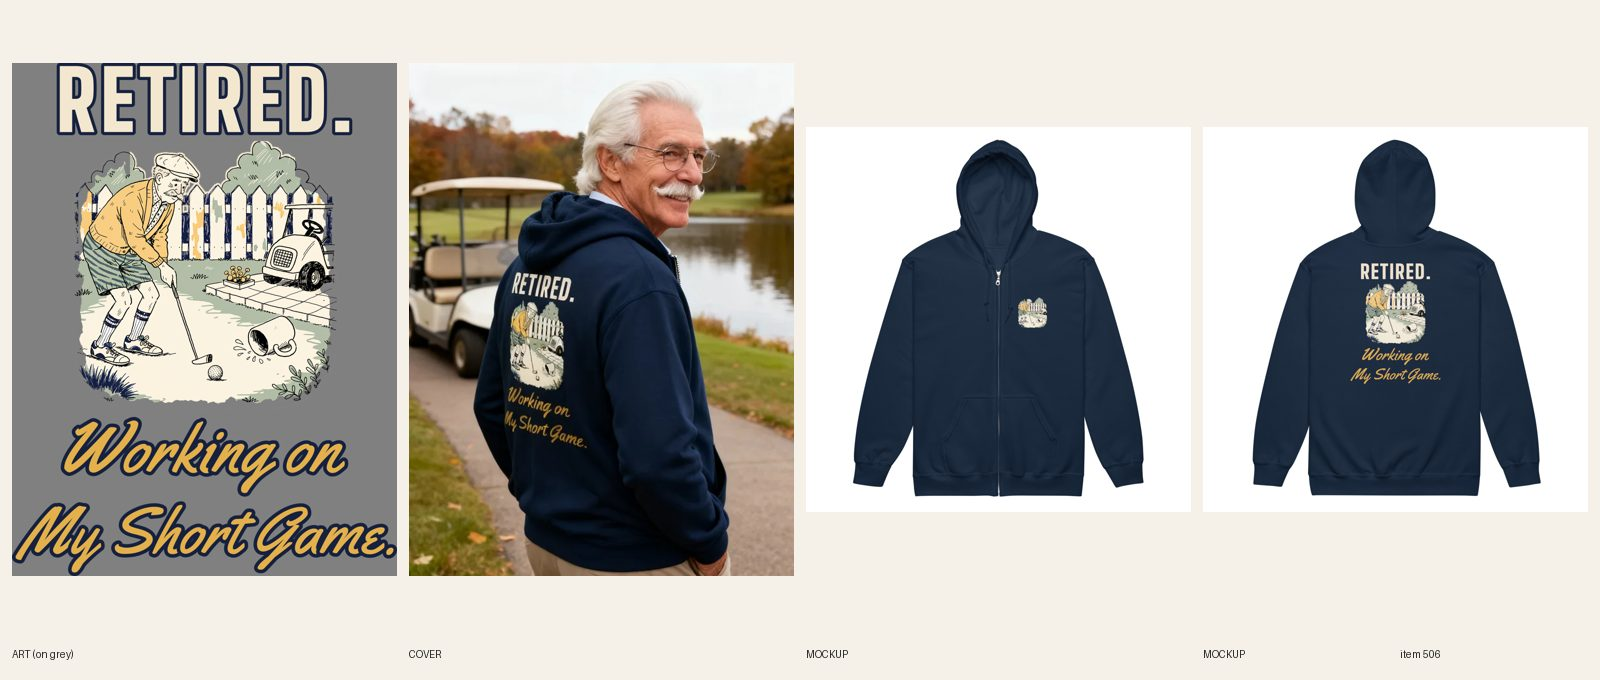
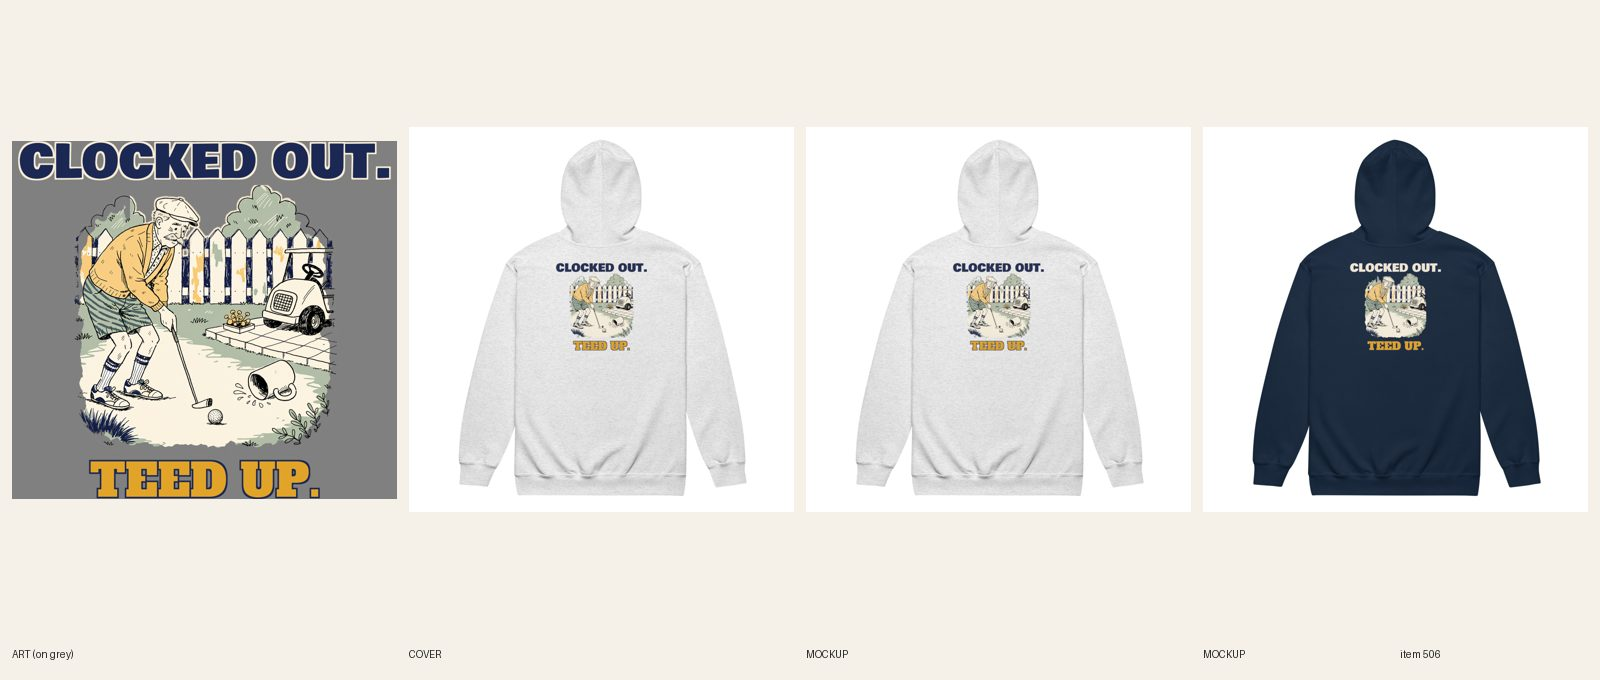
[C] review 506 (redo)
Claude-Session: https://claude.ai/code/session_01CCHcDj8LcJJ8qUPtKE3cvn

diff --git a/designs/c506/make.py b/designs/c506/make.py
@@ -1,0 +1,36 @@
+from PIL import Image, ImageDraw, ImageFont, ImageFilter
+FD='designs/fonts/'
+RED=(196,52,44,255); NAVY=(28,40,84,255); MUST=(226,164,40,255); CREAM=(246,236,214,255); BROWN=(58,36,24,255)
+def line(text,font,wfrac,W,fill,key,kw=31,track=0,var=None):
+    def mk(sz):
+        f=ImageFont.truetype(FD+font,sz)
+        if var: f.set_variation_by_axes(var)
+        return f
+    f=mk(800); adv=[f.getlength(c) for c in text]
+    tot=sum(adv)+track*(len(text)-1); size=int(800*W*wfrac/tot)
+    f=mk(size); adv=[f.getlength(c) for c in text]; tr=int(track*size/800)
+    asc,desc=f.getmetrics(); tot=int(sum(adv)+tr*(len(text)-1))
+    pad=80; im=Image.new('RGBA',(tot+2*pad,asc+desc+2*pad),(0,0,0,0))
+    def draw(layer,col):
+        d=ImageDraw.Draw(layer); x=pad
+        for c,a in zip(text,adv): d.text((x,pad),c,font=f,fill=col); x+=a+tr
+    k=Image.new('L',im.size,0); d=ImageDraw.Draw(k); x=pad
+    for c,a in zip(text,adv): d.text((x,pad),c,font=f,fill=255); x+=a+tr
+    k=k.filter(ImageFilter.MaxFilter(kw)); im.paste(Image.new('RGBA',im.size,key),(0,0),k)
+    draw(im,fill)
+    return im.crop(im.getbbox())
+def build(tag,c1,k1,bgc):
+    im=Image.open('docs/print-files/506-retired-short-game.png').convert('RGBA'); W=im.width
+    art=im.crop((0,662,W,2950))
+    h1=line("CLOCKED OUT.",'BowlbyOne-Regular.ttf',0.97,W,c1,k1,kw=29)
+    h2=line("TEED UP.",'AlfaSlabOne-Regular.ttf',0.60,W,MUST,NAVY,kw=27)
+    print(tag,'h1',h1.size,'h2',h2.size,'ratio h2/h1',h2.height/h1.height)
+    g=40; H=h1.height+g+art.height+g+h2.height
+    out=Image.new('RGBA',(W,H),(0,0,0,0))
+    out.alpha_composite(h1,((W-h1.width)//2,0)); y=h1.height+g
+    out.alpha_composite(art,(0,y)); y+=art.height+g
+    out.alpha_composite(h2,((W-h2.width)//2,y))
+    out.save(f'docs/print-files/506-v2-clocked-{tag}.png'); print(out.size,H/W)
+    bg=Image.new('RGBA',out.size,bgc); bg.alpha_composite(out); bg.convert('RGB').resize((600,int(600*H/W))).save(f'designs/c506/prev_{tag}.png')
+build('ash',NAVY,CREAM,(200,200,200,255))
+build('navy',CREAM,NAVY,(38,50,88,255))

diff --git a/docs/pipeline/506-golf-zip-hoodie-retired-working-on-my-short-game.md b/docs/pipeline/506-golf-zip-hoodie-retired-working-on-my-short-game.md
@@ -1,4 +1,4 @@
-status: BUILDING [C] 2026-10-20 05:27
+status: REVIEW
 lane: C
 type: new
 id: 506
@@ -35,3 +35,4 @@ kd: 28
 - 2026-10-18 02:22 UTC builder [C]: Sync 12/12 on the new files. REVIEW.
 - 2026-10-18 03:30 UTC director: LIVE (ACTIVE + published, audit PASS). Scene edges now worn. SEO title trimmed to 58 chars (was 63).
 - 2026-10-18 17:22 UTC director: QUALITY RESET grade C (new line + type), REDO. The product stays ACTIVE (same handle, URL, title keyword). 1. Line (R3.12, quality-reset 'Lines'): "RETIRED. / Working on My Short Game.": Stock retiree golf line, no surprise; script second line on navy. Write 5 candidates, keep the one a stranger laughs at in 3 seconds without backstory; kill lines that only describe the picture; if none of the 5 is funny, PARK it. 2. Quality reset type bar (docs/backlog/quality-reset.md, 'The new bar'): headline at least 90% of the art width, heavy, colors pulled from the art; second line at least 45% of the headline's height, never a thin script on a dark or mid garment; use the lettering as a shape (arch, stacked lockup, words breaking into the art), not a plain bar above and a script line below; no font used on more than 1 in 6 of the last 30 designs. 3. Keep the art if it carries the new line, else one new illustration (R4/R5). New print means a new cover per R6.10, copy line one rewritten for the new joke (R8.3), and a fresh review sheet (R7.7). While quality-reset.md says PAUSED, only lane A builds, and only the samples step 2 names.
+- 2026-10-20 05:41 UTC builder [C]: REDO new line + type (grade C). 5 candidates: "CLOCKED OUT. / TEED UP." (kept: retirement and golf in four words, a stranger gets it), "RETIRED. Working on My Short Game." (old stock), "MY NEW BOSS IS A COFFEE MUG", "NO TEE TIMES. NO MEETINGS.", "LONG RETIREMENT. SHORT GAME.". Same backyard-putting art. CLOCKED OUT. Bowlby One 97% of the art width; TEED UP. Alfa Slab One 60% width, mustard with a navy keyline (99% of the headline's height). Light-file (R5.3.8): Ash file 1090187094 has the headline navy with a cream keyline; Navy file 1090187130 has it cream with a navy keyline (docs/print-files/506-v2-clocked-ash.png / -navy.png); logged: light file Ash on file 1090187094, headline fill navy. Back 3263 x 3034, BW 1650 BT 225, chest file 1088633068 unchanged, 12/12 relinked per color. 2 back mockups replaced in place, read at phone size. Copy, FAQ and SEO rewritten for the new line. Plain product shot. fal $0.

diff --git a/docs/intake-log.md b/docs/intake-log.md
@@ -1,5 +1,6 @@
 RUNNING lane B since 2026-10-20 05:30 UTC
 RUNNING lane C since 2026-10-20 05:30 UTC
+2026-10-20 05:41 UTC — [C] Builder run: redid #506 Men's Golf retired zip hoodie (new line + type: CLOCKED OUT. / TEED UP., Bowlby One + Alfa Slab, same backyard art, Ash file 1090187094 + Navy file 1090187130, BW 1650 BT 225, 12/12 relinked, 2 back mockups replaced in place, copy + SEO updated, plain product shot). REVIEW. fal $0.
 RUNNING lane E since 2026-10-20 05:16 UTC
 2026-10-20 05:32 UTC — [E] Builder run: redid #388 Women's Christmas crewneck again (every calendar day box now filled: cream square, red X, so it reads booked; line kept SORRY, I'M BOOKED / TILL JANUARY.; Navy + Sand files, 12/12 synced). REVIEW. fal $0.
 2026-10-20 05:16 UTC — [D] Director run (RESUMED). LIVE 6 (cap): #649 #205 #217 #219 #326 #356 (approved earlier and held; #649 set ACTIVE + published on Online Store, Headless, Google & YouTube; audit --handle PASS 0 warn each). Reviewed 20 new redo sheets side by side with 493 and 483: approved and held 10 (#382 #459 #499 #503 #514 #533 #563 #620 #622 #637); REDO 10: #280 #318 #380 #396 #513 #519 (joke line narrower than headline, R3.7.8, 10th hit in two runs: added builder card 7h, log both widths), #257 #258 (R3.13 template line), #448 #495 (R3.1 sound-alike puns). Inbox: nothing new since the Black Friday note (Sam already asked about the deal and set discount). READY: A 13, B 12, C 17, E 12, no new briefs needed. No Telegram (digest not due, nothing new for Sam). Held next, in order: #358 #650, then the 15 from 04:16, then the 10 above, then the 31 add-ons. Lock released.
